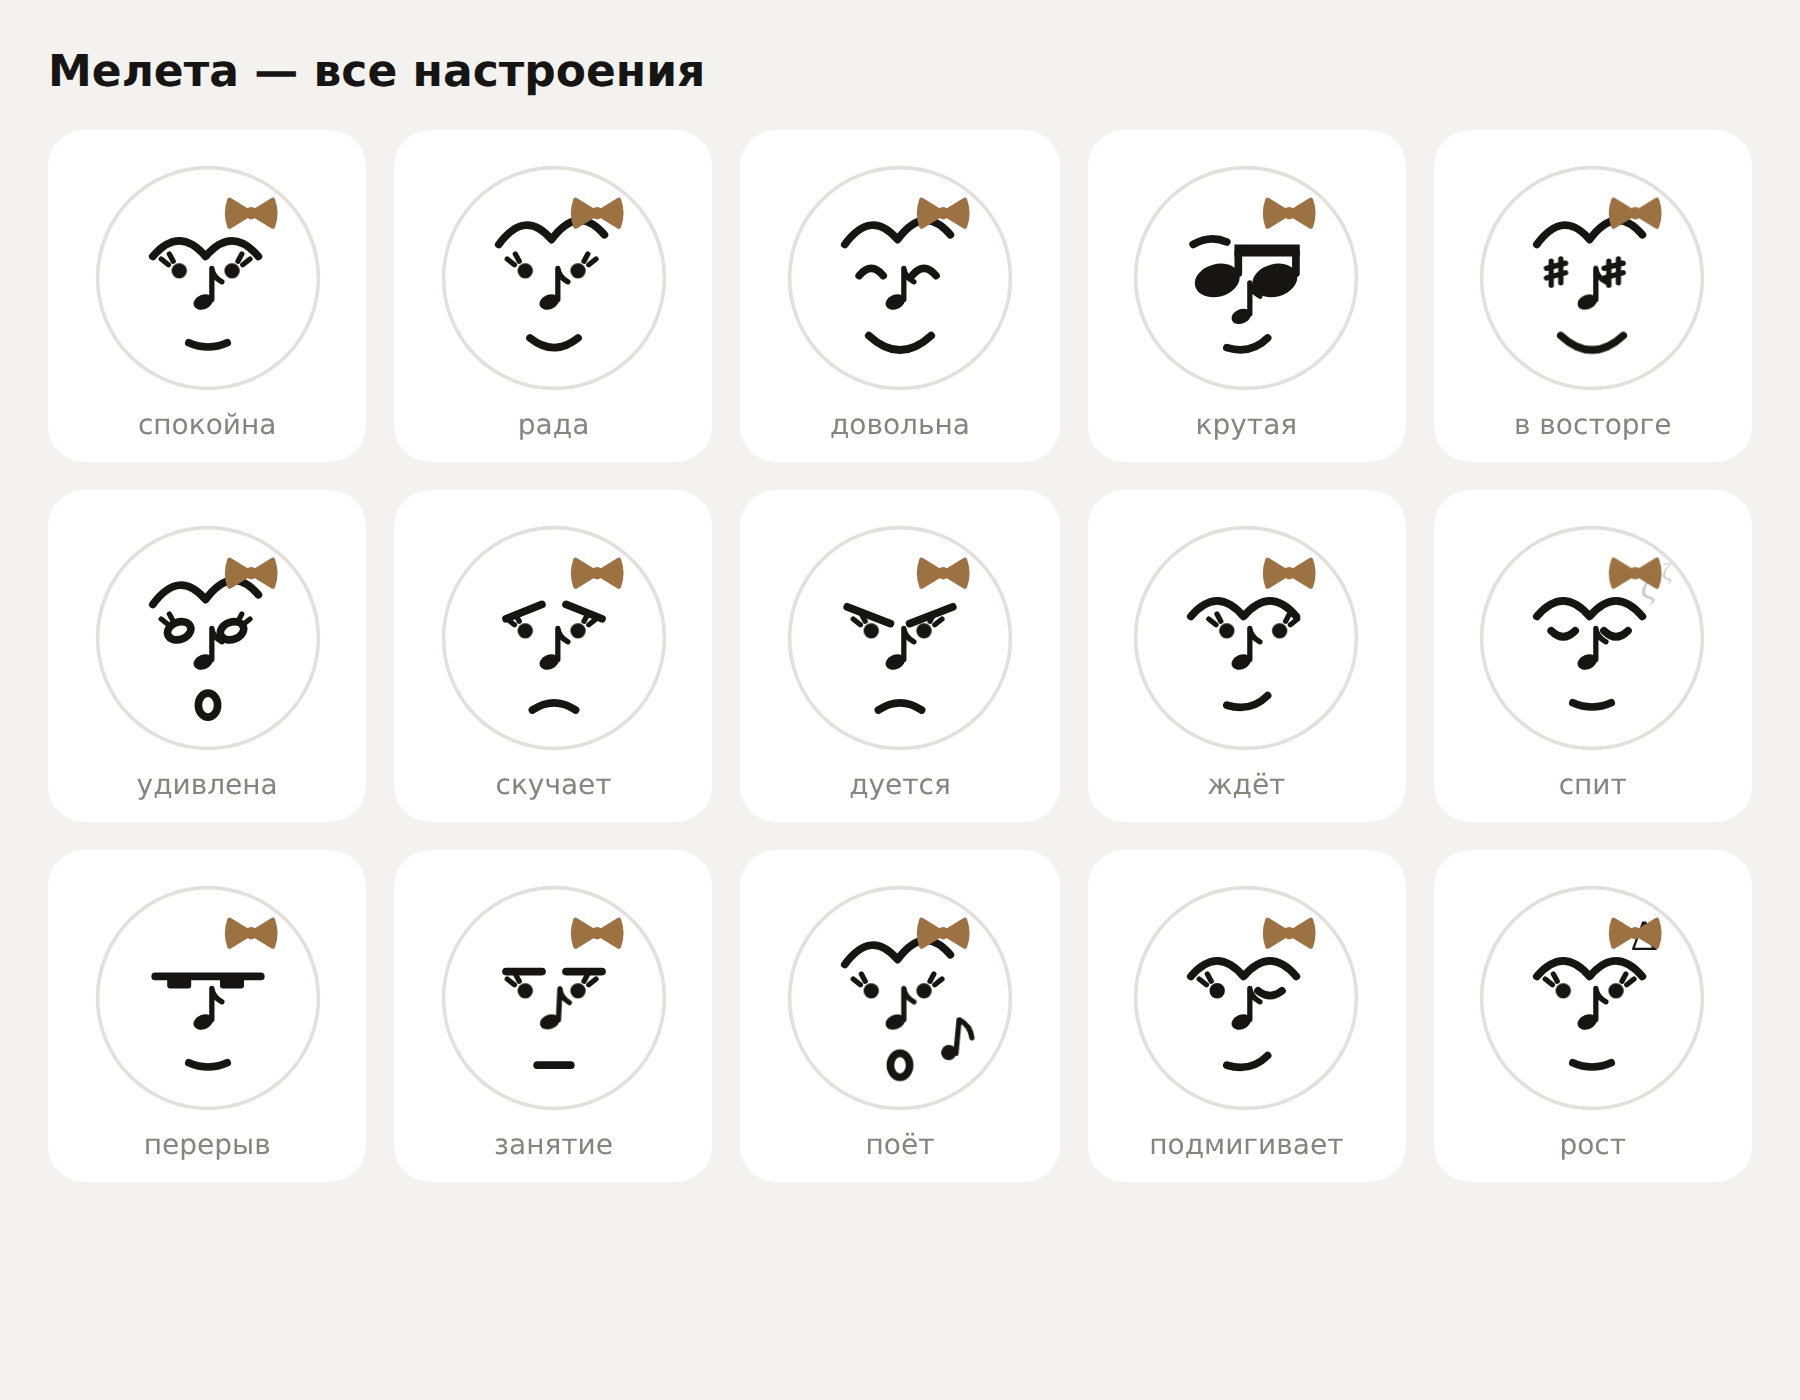
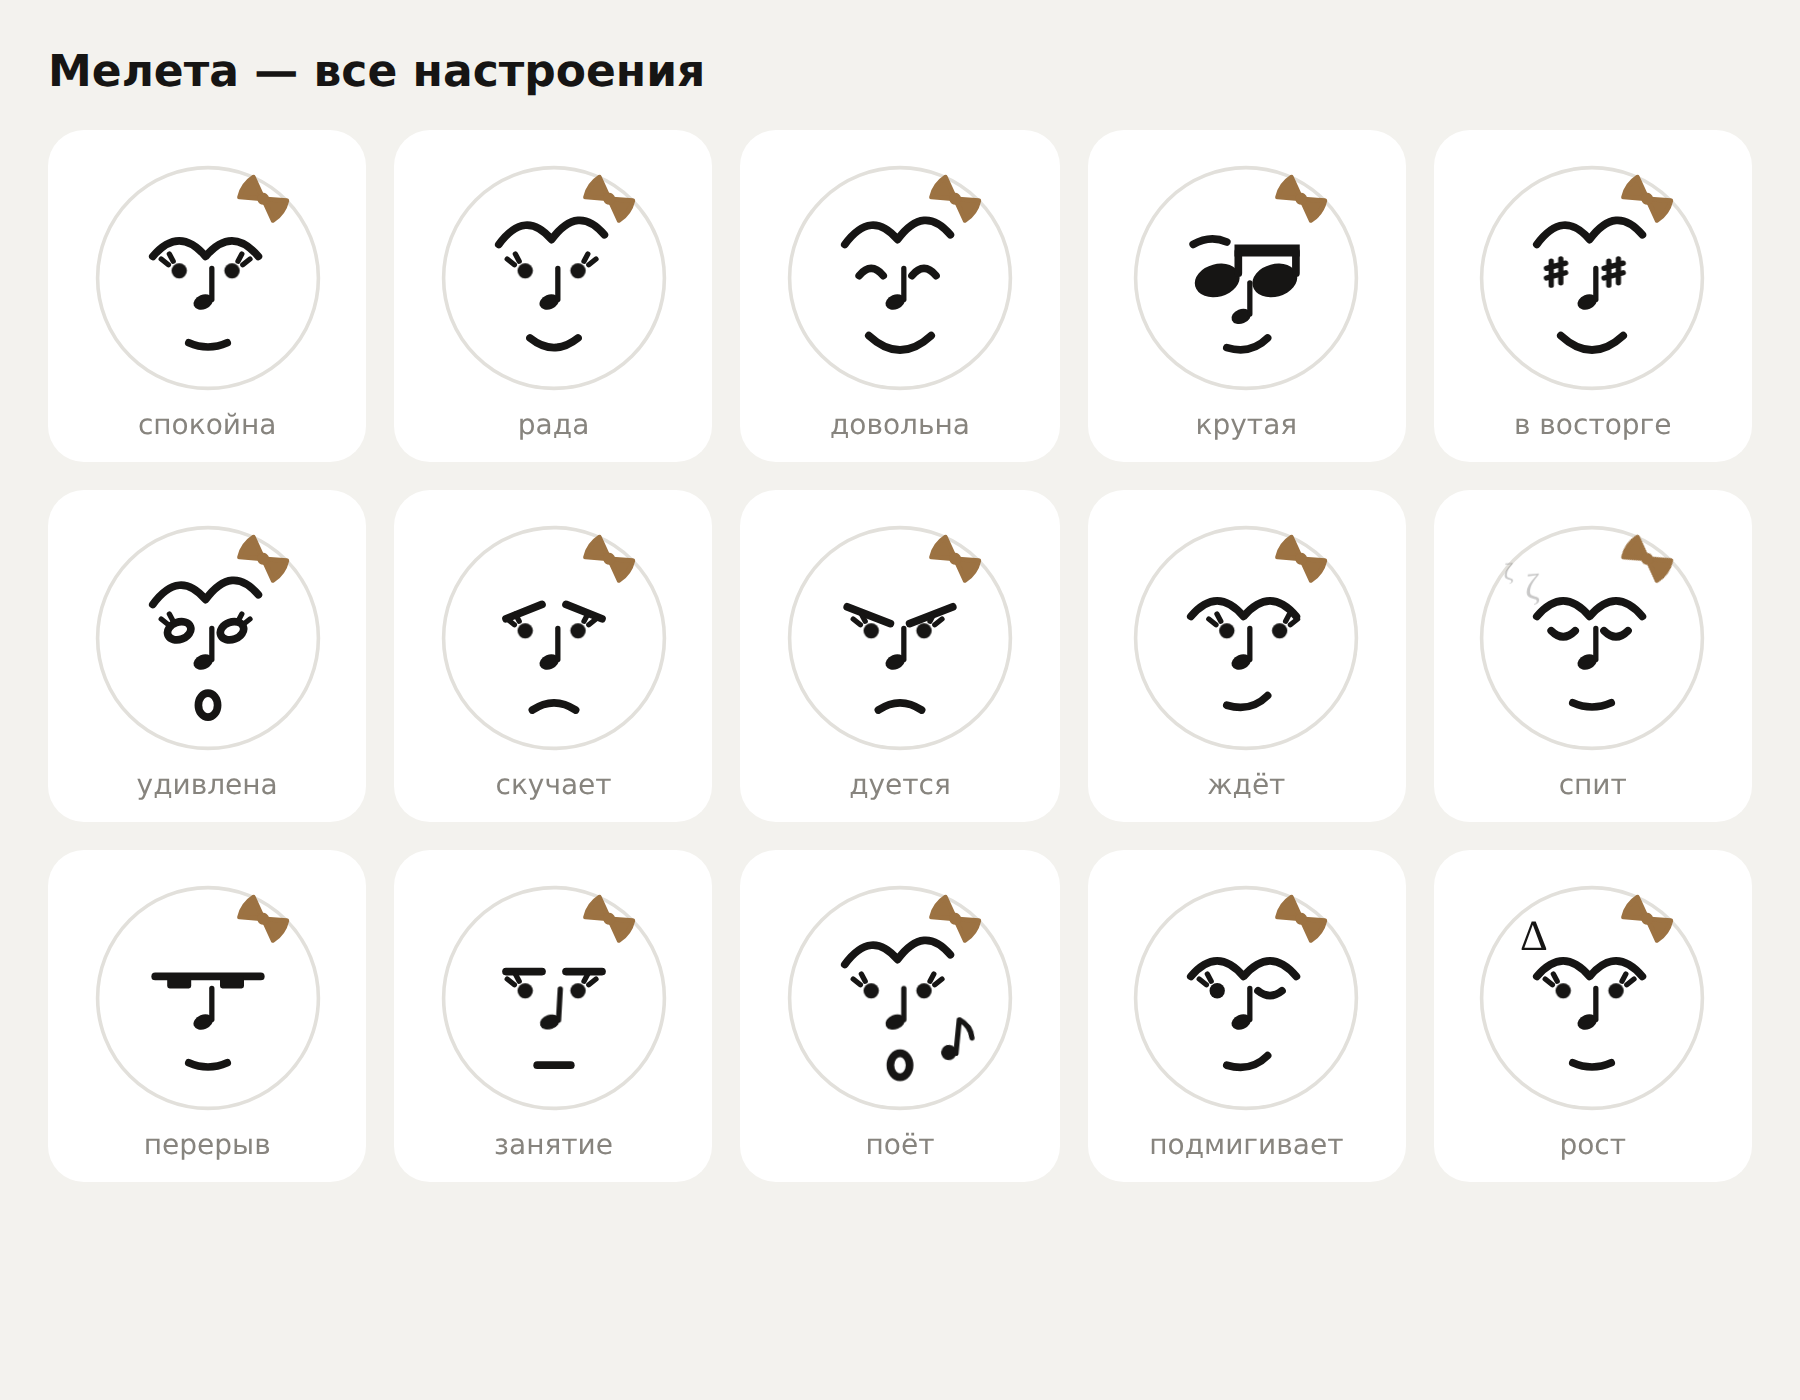
Мелета: бантик правее и выше, вдоль линии головы; нотка без флажка; «ζζ» и «Δ» слева
Claude-Session: https://claude.ai/code/session_01QNFCZqQziYHXy5u3yUR2oH

diff --git a/src/ui/mascot.js b/src/ui/mascot.js
@@ -76,11 +76,14 @@ const lashes = (keys) => {
   const [l, r] = LASH[k];
   return T('M' + (l - 4.5) + ' 44.5 l-3 -2.4 M' + (l - 2.5) + ' 43 l-1.6 -3') + (r != null ? T('M' + (r + 4.5) + ' 44.5 l3 -2.4 M' + (r + 2.5) + ' 43 l1.6 -3') : '');
 };
-const BOW = '<g class="mbow"><path class="md mbw" d="M68 23 L59 17.5 Q57 23 59 28.5 Z"/><path class="md mbw" d="M68 23 L77 17.5 Q79 23 77 28.5 Z"/><circle class="md" cx="68" cy="23" r="2.6"/></g>';
-// Нос Мелеты — нотка: головка наклонным овалом, штиль вверх и флажок-штрих (вместо камертона)
+// бантик сидит на макушке справа и наклонён вдоль линии головы
+const BOW = '<g class="mbow" transform="translate(73 17) rotate(35)"><path class="md mbw" d="M0 0 L-8.5 -5 Q-10.5 0 -8.5 5 Z"/><path class="md mbw" d="M0 0 L8.5 -5 Q10.5 0 8.5 5 Z"/><circle class="md" cx="0" cy="0" r="2.5"/></g>';
+// Нос Мелеты — нотка: головка наклонным овалом и штиль вверх, без флажка (вместо камертона)
 const NOTE = (dy = 0) => '<g class="mfork mnote"><ellipse class="md" cx="48" cy="' + (60 + dy) + '" rx="4.2" ry="3" transform="rotate(-22 48 ' + (60 + dy) + ')"/>' +
-  T('M51.6 ' + (59 + dy) + ' V' + (46 + dy) + ' q0.4 3.6 4.2 5.6') + '</g>';
-const NOSE_F = { nose: NOTE(0), noseLow: NOTE(6), noseBob: '<g class="mbob">' + NOTE(0) + '</g>' };
+  T('M51.6 ' + (59 + dy) + ' V' + (46 + dy)) + '</g>';
+const NOSE_F = { nose: NOTE(0), noseLow: NOTE(6), noseBob: '<g class="mbob">' + NOTE(0) + '</g>',
+  // у Мелеты справа наверху бантик: «ζζ» сна и «Δ» роста — слева
+  zz: '<g class="mzz">' + G(22, 30, 15, 'ζ') + G(13, 22, 10, 'ζ') + '</g>', delta: G(20, 30, 18, 'Δ') };
 
 // ring: false — без круга («Минимал»); cls — доп. класс (mpoke — реакция на касание); gender — вариант (по умолчанию — выбранный)
 export function mascotSVG(mood = 'calm', { size = 56, label = '', ring = true, cls = '', gender = GENDER } = {}) {

diff --git a/DECISIONS.md b/DECISIONS.md
@@ -501,6 +501,6 @@
   Не чаще раза в 2,5 минуты (или «редко» — раз в 8). Без укоров; на статистику и лигу слух не влияет.
 - **Мелета или Мелетий** (автор, 2026-10): маскот — на выбор женский (Мелета) или мужской вариант. Имя мужского —
   Мелетий (греч. Μελέτιος, от того же μελέτη; есть и святой Мелетий Антиохийский) — выбор Claude, можно поменять.
-  Мелета — бантик (цвет оформления), ресницы и нос-нотка со штрихом; Мелетий — прежнее лицо с носом-камертоном, без бороды. Строки, где маскот назван или говорит о себе,
+  Мелета — бантик на макушке справа (цвет оформления), ресницы и нос-нотка (штиль вверх, без флажка); Мелетий — прежнее лицо с носом-камертоном, без бороды. Строки, где маскот назван или говорит о себе,
   имеют мужской вариант (ключ «@m» в i18n, свои реплики напоминаний); uz — Melete/Meletiy, en — Melete/Meletius (she/he).
   Выбор — вверху «Уведомлений» и в шаге «Мелета» при регистрации.
